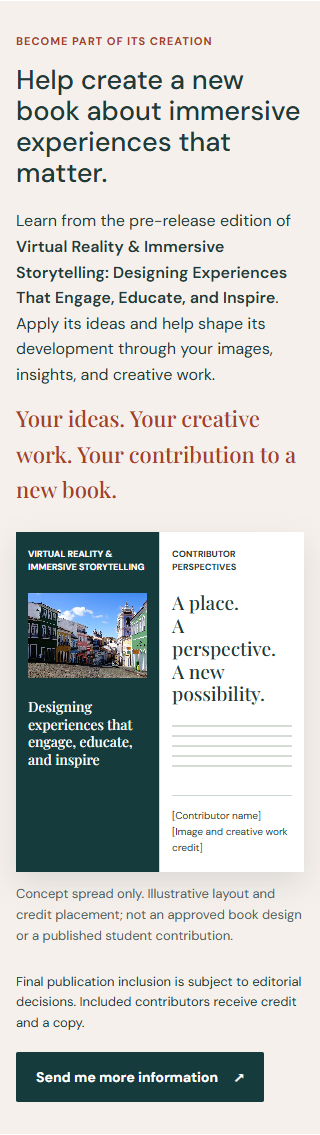
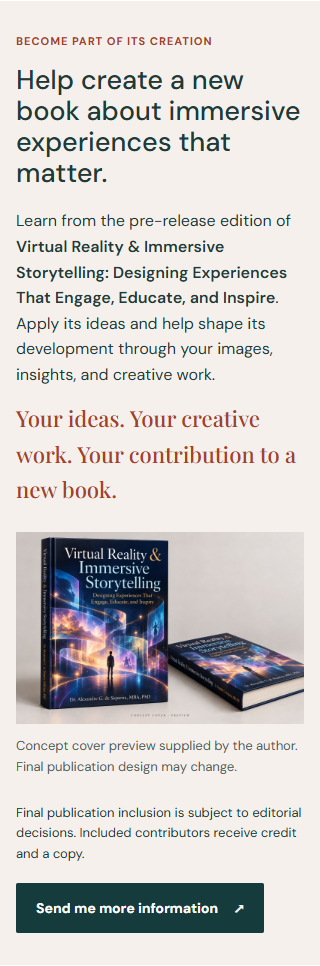
Feature supplied author-credit book mockup

diff --git a/index.html b/index.html
@@ -201,32 +201,16 @@
           </p>
         </div>
         <figure class="book-art" data-book-visual>
-          <div class="spread">
-            <div class="spread-left">
-              <span>VIRTUAL REALITY &amp;<br />IMMERSIVE STORYTELLING</span>
-              <div class="spread-image">
-                <img
-                  src="Colorful%20street%20scene%20of%20Salvador,%20Brazil.jpg"
-                  alt="Pelourinho photograph used in an illustrative book layout"
-                  width="1280"
-                  height="719"
-                  loading="lazy"
-                />
-              </div>
-              <p>Designing experiences that engage, educate, and inspire</p>
-            </div>
-            <div class="spread-right">
-              <span>CONTRIBUTOR PERSPECTIVES</span>
-              <h3>A place.<br />A perspective.<br />A new possibility.</h3>
-              <div class="sample-lines" aria-hidden="true"></div>
-              <p class="sample-credit">
-                [Contributor name]<br />[Image and creative work credit]
-              </p>
-            </div>
-          </div>
+          <img
+            src="assets/book-cover-mockup.png"
+            width="1536"
+            height="1024"
+            loading="lazy"
+            alt="Concept cover mockup of Virtual Reality &amp; Immersive Storytelling: Designing Experiences That Engage, Educate, and Inspire, credited to Dr. Alexandre G. de Siqueira, MBA, PhD"
+          />
           <figcaption>
-            Concept spread only. Illustrative layout and credit placement; not
-            an approved book design or a published student contribution.
+            Concept cover preview supplied by the author. Final publication
+            design may change.
           </figcaption>
         </figure>
         <div class="book-footer">

diff --git a/site-config.js b/site-config.js
@@ -2,7 +2,9 @@
 window.UFBrazilConfig = Object.freeze({
   signupEndpoint: null,
   programGuideUrl: null,
-  bookVisualUrl: null,
-  bookVisualAlt: null,
-  bookVisualCaption: null,
+  bookVisualUrl: "assets/book-cover-mockup.png",
+  bookVisualAlt:
+    "Concept cover mockup of Virtual Reality & Immersive Storytelling: Designing Experiences That Engage, Educate, and Inspire, credited to Dr. Alexandre G. de Siqueira, MBA, PhD",
+  bookVisualCaption:
+    "Concept cover preview supplied by the author. Final publication design may change.",
 });

diff --git a/docs/PR.md b/docs/PR.md
@@ -6,6 +6,8 @@ Preserves the opening image, cleared coastal photographs with attribution, offic
 
 The separate signup page requires only email. It stays disabled until a service is configured; success requires HTTP success plus an explicit `accepted: true` acknowledgement. The forthcoming guide has hidden configuration hooks, with no dead download links.
 
+Alex's supplied author-credit book mockup now replaces the initial sample spread, with a concept-cover caption and accessible description. The website mockup dependency is fulfilled.
+
 ## Validation
 
 - `npm run check` in Chromium-based Edge: 1440px desktop, 820px tablet, 390px and 320px phones; signup desktop/phone.
@@ -30,4 +32,4 @@ Full responsive captures and machine-readable results are in `docs/screenshots/`
 
 ## Release Dependencies
 
-Keep this PR unmerged and undeployed. Configure an approved signup service and email provider; supply the approved program guide and final book artwork. Align the official brochure's accommodation-inclusions wording with the approved full-stay housing commitment. See [release notes](https://github.com/agsiqueira/uf-brazil-website/blob/codex/recruitment-seven-section/docs/RELEASE.md) for configuration, acceptance contract, content provenance, and verification limits.
+Keep this PR unmerged and undeployed. Configure an approved signup service and email provider; supply the approved program guide. The supplied book mockup is integrated as a concept cover preview. Align the official brochure's accommodation-inclusions wording with the approved full-stay housing commitment. See [release notes](https://github.com/agsiqueira/uf-brazil-website/blob/codex/recruitment-seven-section/docs/RELEASE.md) for configuration, acceptance contract, content provenance, and verification limits.

diff --git a/docs/RELEASE.md b/docs/RELEASE.md
@@ -31,7 +31,7 @@ The approved PDF is forthcoming. `programGuideUrl` is null and both download int
 
 ## Book imagery
 
-The visible book spread is a labeled HTML/CSS concept using the existing Pelourinho photograph and bracketed credit examples. It claims neither approved design nor completed student work. Final approved cover/spread imagery is forthcoming. Set `bookVisualUrl`, `bookVisualAlt`, and `bookVisualCaption` together to replace the concept; leave the participation invitation and editorial qualification intact. Final imagery is a content release dependency, not a broken integration.
+Alex supplied `Updated Author Credit Book Mockup.png`, now included as `assets/book-cover-mockup.png`. The author-credit mockup replaces the earlier illustrative spread, including without JavaScript. It remains labeled as a concept cover preview; final publication design may change. `bookVisualUrl`, `bookVisualAlt`, and `bookVisualCaption` are configured for this supplied asset. Future final artwork can replace it through these settings. The website book-mockup dependency is fulfilled; final publication artwork approval remains distinct from this preview. Participation copy and the editorial qualification remain intact.
 
 ## Content provenance
 
